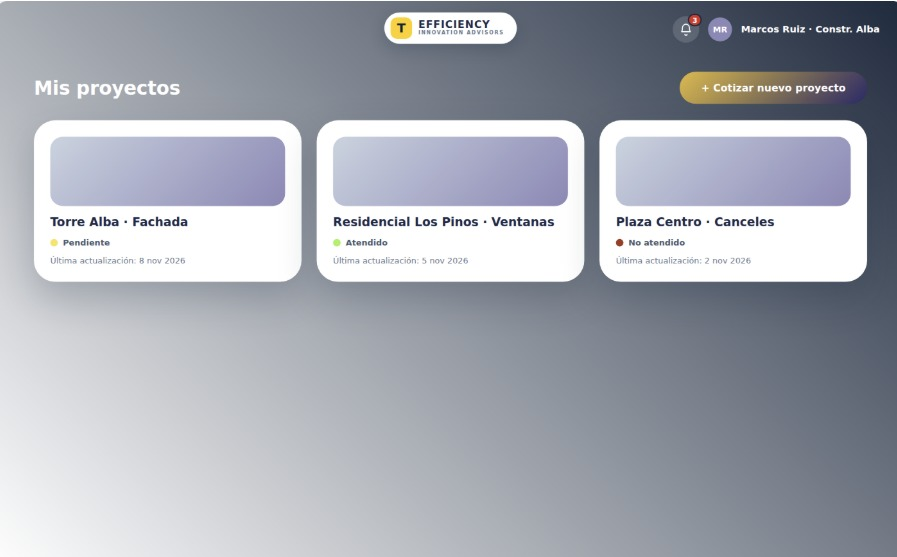
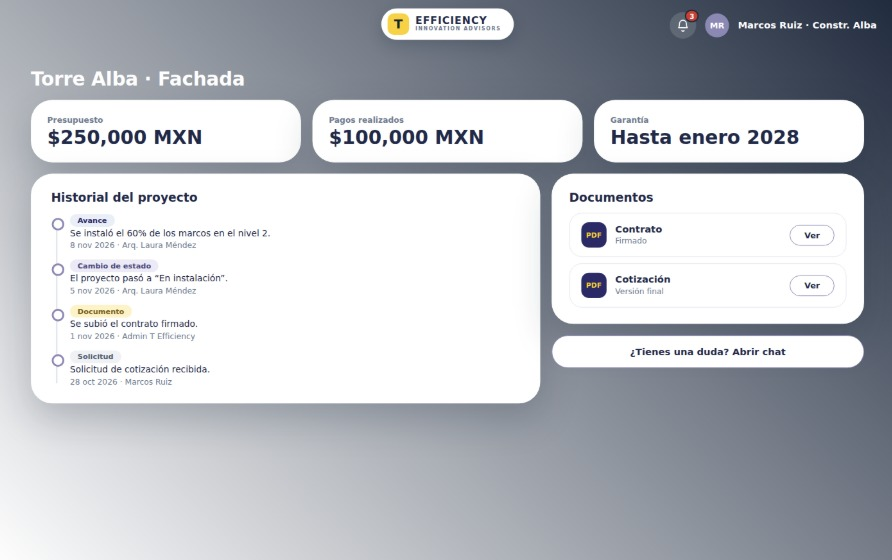
fix(diseno): corregir nombres de imagenes y fila de rf-08

diff --git a/docs/REQUERIMIENTOS.md b/docs/REQUERIMIENTOS.md
@@ -17,8 +17,7 @@
 | RF-05 | Funcional | El sistema debe permitir asignar cada solicitud a un responsable de atención para garantizar su seguimiento. | Alta |
 | RF-06 | Funcional | El sistema debe registrar el historial de comunicaciones realizadas con cada cliente, incluyendo mensajes, respuestas, fechas y responsables. | Alta |
 | RF-07 | Funcional | El sistema debe permitir consultar el avance del proyecto mediante fotografías, reportes y actualizaciones registradas por el personal encargado. | Alta |
-| RF-08 | Funcional | El sistema debe permitir al cliente consultar información relacionada con su proyecto, incluyendo avances, fotografías, presupuesto, pagos, garantías y documentos autorizados. Los documentos se pueden visualizar, pero no descargar. | 
-Alta |
+| RF-08 | Funcional | El sistema debe permitir al cliente consultar información relacionada con su proyecto, incluyendo avances, fotografías, presupuesto, pagos, garantías y documentos autorizados. Los documentos se pueden visualizar, pero no descargar. | Alta |
 | RF-09 | Funcional | El sistema debe permitir registrar fechas importantes del proyecto como visitas, juntas programadas y fechas compromiso. | Media |
 | RF-10 | Funcional | El sistema debe permitir adjuntar documentos relacionados con el proyecto como cotizaciones, fichas técnicas, certificaciones y términos y condiciones. | Media |
 | RF-11 | Funcional | El sistema debe permitir modificar y actualizar una cotización cuando el cliente solicite cambios en productos o servicios. | Alta |
